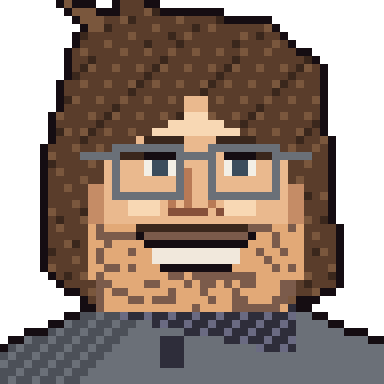
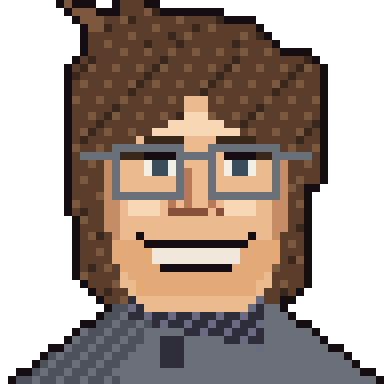
Portrait fixes: Norm front view with mohawk, Wes clean chin, Walt no cat / lighter beard / short light hair, Skip no chin dots and leaner, Kelsey slimmer
Claude-Session: https://claude.ai/code/session_01EHzhXZk3eB39kdtoeYCRr2

Changed region(s): [[0.0, 0.0625, 1.0, 1.0], [0.6562, 0.0312, 0.7812, 0.1562]]

diff --git a/src/characters.js b/src/characters.js
@@ -122,7 +122,7 @@ const PX = (cv, st = {}) => {
 };
 const SK = { skin: '#e2a977', skinLt: '#f3cc9f', skinSh: '#b87a56', skinDk: '#86503a' };
 const SK2 = { skin: '#eab98e', skinLt: '#f8d8b4', skinSh: '#c58c66', skinDk: '#93603f' };   // paler
-Object.assign(PAL, { black: '#1b1517', blk2: '#2b2428', grey: '#8a8f98', greyDk: '#5a5f69', greyLt: '#b8bcc4', brown: '#5a3d2b', brownDk: '#3a271c', brownLt: '#7a573d', blond: '#9a7a52', blondLt: '#c4a26c', red: '#d8283a', redDk: '#8a1624', redLt: '#ff5a66', glass: '#c9d6dc', teal: '#2e6e7a', paisley: '#2e2d3a', paisley2: '#6a6a82', white: '#f3efe6' });
+Object.assign(PAL, { hairLt: '#a67f58', hairLt2: '#c49a6c', beardLt: '#8f6b4c', beardLt2: '#a98462', black: '#1b1517', blk2: '#2b2428', grey: '#8a8f98', greyDk: '#5a5f69', greyLt: '#b8bcc4', brown: '#5a3d2b', brownDk: '#3a271c', brownLt: '#7a573d', blond: '#9a7a52', blondLt: '#c4a26c', red: '#d8283a', redDk: '#8a1624', redLt: '#ff5a66', glass: '#c9d6dc', teal: '#2e6e7a', paisley: '#2e2d3a', paisley2: '#6a6a82', white: '#f3efe6' });
 
 function headBase(P, sk, o = {}) {
   const { px, ell } = P, rx = o.rx || 14, ry = o.ry || 15.5, cx = o.cx || 24, cy = o.cy || 22;
@@ -130,10 +130,10 @@ function headBase(P, sk, o = {}) {
   for (let y = cy + 6; y <= cy + ry + 1; y++) for (let x = cx - 9; x <= cx + 9; x++) if (y <= cy + ry + 1 - Math.max(0, Math.abs(x - cx) - 6) * 0.9) px(x, y, sk.skin);   // squarer jaw
   px(cx - 7, cy - 8, sk.skinLt, 14, 3); px(cx - 8, cy + 2, sk.skinLt, 4, 3); px(cx + 4, cy + 2, sk.skinLt, 4, 3);
 }
-function neckShirt(P, sk, shirt, shirtSh, y0 = 38) {
+function neckShirt(P, sk, shirt, shirtSh, y0 = 38, slope = 2.3, start = 12) {
   const { px } = P;
   for (let y = 33; y < y0 + 3; y++) for (let x = 19; x <= 29; x++) px(x, y, x < 22 ? sk.skinSh : sk.skin);
-  for (let y = y0; y < 48; y++) { const half = 12 + (y - y0) * 2.3; for (let x = 0; x < 48; x++) if (Math.abs(x - 24) <= half) px(x, y, x < 24 - half * 0.45 && (x + y) % 3 ? shirtSh : shirt); }
+  for (let y = y0; y < 48; y++) { const half = start + (y - y0) * slope; for (let x = 0; x < 48; x++) if (Math.abs(x - 24) <= half) px(x, y, x < 24 - half * 0.45 && (x + y) % 3 ? shirtSh : shirt); }
 }
 const eyesAt = (P, y, o = {}) => {
   const { px, st } = P, gap = o.gap || 11;
@@ -149,21 +149,18 @@ const noseAt = (P, y) => { const { px } = P; px(23, y, 'skinSh', 1, 5); px(22, y
 // DING: thick dark beard, black rectangular glasses, short tousled brown hair, black tee, a tabby cat on his shoulder.
 export function paintDing(cv, st = {}) {
   const P = PX(cv, st), { px, ell, poly } = P;
-  // cat (behind, left shoulder)
-  poly([[1, 32], [3, 20], [5, 16], [7, 20], [11, 20], [13, 15], [14, 21], [15, 36], [8, 42], [2, 42]], '#8a7a62', (x, y) => ((x * 2 + y) % 5 === 0 ? '#4a3f33' : (x + y) % 7 === 0 ? '#b0a086' : '#8a7a62'));
-  px(4, 24, '#f0e6c8', 2, 2); px(9, 24, '#f0e6c8', 2, 2); px(5, 25, 'ol', 1, 1); px(10, 25, 'ol', 1, 1); px(7, 27, '#c07a7a', 2, 1);
-  px(2, 31, '#2a2024', 12, 2);                                                                   // collar
   neckShirt(P, SK2, 'blk2', 'black');
   headBase(P, SK2, { rx: 13.5, ry: 15 });
-  for (let y = 4; y <= 14; y++) for (let x = 11; x <= 37; x++) { const top = 6 + Math.floor(Math.abs(x - 26) / 6) - ((x * 5) % 3 === 0 ? 1 : 0), line = 13 + (x < 15 ? Math.floor((15 - x)) : 0) + (x > 34 ? Math.floor((x - 34)) : 0); if (y >= top && y <= line) px(x, y, (x * 2 + y * 3) % 6 < 1 ? 'brownLt' : 'brown'); }
-  px(11, 14, 'brown', 2, 8); px(36, 14, 'brown', 2, 8);
+  // very short, light brown hair (close crop, high hairline)
+  for (let y = 6; y <= 12; y++) for (let x = 11; x <= 37; x++) { const dx = Math.abs(x - 24), top = 6 + Math.floor(dx * dx / 55), line = 10 + (dx > 11 ? Math.floor(dx - 10) : 0); if (y >= top && y <= line) px(x, y, (x * 3 + y * 5) % 7 < 1 ? 'hairLt2' : 'hairLt'); }
+  px(11, 12, 'hairLt', 2, 5); px(36, 12, 'hairLt', 2, 5);
   // beard + moustache (dark, full)
-  for (let y = 27; y <= 41; y++) for (let x = 11; x <= 37; x++) { const cx = 24, d = ((x - cx) / 13) ** 2 + ((y - 29) / 12.5) ** 2; if (d <= 1 && y >= 27 + Math.max(0, 3 - Math.abs(x - cx) * 0.4)) px(x, y, (x * 3 + y * 5) % 9 < 1 ? 'brown' : 'brownDk'); }
-  px(19, 28, 'brownDk', 11, 2); px(17, 27, 'brownDk', 4, 1); px(27, 27, 'brownDk', 4, 1);   // moustache
+  for (let y = 27; y <= 41; y++) for (let x = 11; x <= 37; x++) { const cx = 24, d = ((x - cx) / 13) ** 2 + ((y - 29) / 12.5) ** 2; if (d <= 1 && y >= 27 + Math.max(0, 3 - Math.abs(x - cx) * 0.4)) px(x, y, (x * 3 + y * 5) % 9 < 1 ? 'beardLt2' : 'beardLt'); }
+  px(19, 28, 'beardLt', 11, 2); px(17, 27, 'beardLt', 4, 1); px(27, 27, 'beardLt', 4, 1);   // moustache
   px(21, 32, '#8a3b3b', 6, 1);                                                                    // mouth line in the beard
   talkAt(P, 21, 31, 6);
   // brows + eyes + glasses
-  for (const [bx, t] of [[16, 1], [27, -1]]) for (let i = 0; i < 7; i++) px(bx + i, 17 + (t > 0 ? (i < 3 ? 1 : 0) : (i > 3 ? 1 : 0)), 'brownDk', 1, 2);
+  for (const [bx, t] of [[16, 1], [27, -1]]) for (let i = 0; i < 7; i++) px(bx + i, 17 + (t > 0 ? (i < 3 ? 1 : 0) : (i > 3 ? 1 : 0)), 'beardLt', 1, 2);
   eyesAt(P, 20); noseAt(P, 21);
   for (const gx of [14, 26]) { px(gx, 18, 'black', 9, 1); px(gx, 25, 'black', 9, 1); px(gx, 18, 'black', 1, 8); px(gx + 8, 18, 'black', 1, 8); px(gx + 1, 19, 'glass', 7, 1); }
   px(23, 20, 'black', 3, 1); px(9, 20, 'black', 5, 1); px(35, 20, 'black', 4, 1);
@@ -174,13 +171,13 @@ export function paintDing(cv, st = {}) {
 export function paintDealone(cv, st = {}) {
   const P = PX(cv, st), { px, ell, poly } = P;
   // hair behind the head: long, to the shoulders, with a flyaway tuft up-left
-  poly([[8, 12], [10, 4], [16, 1], [24, 2], [33, 3], [39, 8], [41, 20], [42, 36], [36, 38], [12, 38], [6, 34], [6, 20]], null, (x, y) => ((x * 3 + y * 2) % 7 < 1 ? 'brownLt' : (x + y * 3) % 11 === 0 ? 'brownDk' : 'brown'));
+  poly([[10, 12], [11, 4], [16, 1], [24, 2], [32, 3], [37, 8], [38, 20], [38, 36], [34, 38], [14, 38], [10, 34], [9, 20]], null, (x, y) => ((x * 3 + y * 2) % 7 < 1 ? 'brownLt' : (x + y * 3) % 11 === 0 ? 'brownDk' : 'brown'));
   poly([[12, 4], [8, 0], [13, 2]], 'brownLt'); poly([[16, 2], [14, -1], [20, 1]], 'brown');
-  neckShirt(P, SK2, '#6b7078', '#4c5058');
-  for (let y = 36; y < 44; y++) for (let x = 14; x <= 36; x++) { const t = (x - 14) / 22; if (y - 36 < 3 + t * 5 && y - 36 > t * 2 - 1) px(x, y, (x + y) % 3 === 0 ? 'paisley2' : 'paisley'); }   // bandana knot
+  neckShirt(P, SK2, '#6b7078', '#4c5058', 38, 1.35, 10);   // narrower, athletic shoulders
+  for (let y = 36; y < 44; y++) for (let x = 16; x <= 32; x++) { const t = (x - 14) / 22; if (y - 36 < 3 + t * 5 && y - 36 > t * 2 - 1) px(x, y, (x + y) % 3 === 0 ? 'paisley2' : 'paisley'); }   // bandana knot
   px(20, 42, 'paisley', 3, 4);
-  headBase(P, SK2, { rx: 14, ry: 15.5 });
-  for (let y = 28; y <= 38; y++) for (let x = 11; x <= 37; x++) if (y <= 38 - Math.max(0, Math.abs(x - 24) - 11) * 1.6 && y >= 28) px(x, y, 'skin');   // broad, square jaw
+  headBase(P, SK2, { rx: 12, ry: 15.5 });                                                    // lean face
+  for (let y = 30; y <= 36; y++) for (let x = 14; x <= 34; x++) if (y <= 36 - Math.max(0, Math.abs(x - 24) - 7) * 1.1) px(x, y, 'skin');   // defined, angular jaw
   // hair on top / fringe falling to the sides, parted in the middle
   for (let y = 5; y <= 22; y++) for (let x = 9; x <= 39; x++) { const part = Math.abs(x - 24), line = 13 + Math.floor(part * 0.5) - (part < 2 ? 2 : 0), inner = part < 11 ? 0 : 1; if (y >= 5 + Math.floor(part / 5) && ((y <= line && part <= 15) || (part >= 12 && y <= 24 && part <= 16))) px(x, y, (x * 2 + y) % 6 < 1 ? 'brownLt' : (x + y) % 9 === 0 ? 'brownDk' : 'brown'); }
   // brows (relaxed, raised), eyes, thin glasses
@@ -190,8 +187,6 @@ export function paintDealone(cv, st = {}) {
   px(23, 19, '#6a7078', 3, 1); px(10, 19, '#6a7078', 4, 1); px(35, 19, '#6a7078', 4, 1);
   // big smile with teeth
   px(18, 30, 'ol', 13, 1); px(19, 31, 'tooth', 11, st.talk ? 1 : 2); if (st.talk) px(19, 32, 'mouth', 11, 2); px(20, 33, 'ol', 9, 1); px(17, 29, 'ol', 1, 1); px(31, 29, 'ol', 1, 1);
-  for (let y = 28; y <= 38; y++) for (let x = 12; x <= 36; x++) if ((((x * 73856093) ^ (y * 19349663)) >> 4) % 3 === 0 && !(y >= 30 && y <= 33 && x >= 17 && x <= 31)) px(x, y, 'stub');
-  px(17, 28, 'brownDk', 14, 1); px(19, 29, 'stub', 11, 1);   // moustache shadow
   talkAt(P, 19, 31, 11);
   P.outline();
 }
@@ -211,20 +206,17 @@ export function paintJimbo(cv, st = {}) {
   px(23, 18, '#3a3f48', 3, 1);
   px(20, 29, '#9a5a4a', 9, 1); px(21, 30, 'skinSh', 7, 1);                                         // serious mouth
   talkAt(P, 21, 29, 7);
-  // clasped hands under the chin: two fists with finger lines and knuckles
-  for (let y = 33; y <= 42; y++) for (let x = 16; x <= 32; x++) { const dx = Math.abs(x - 24); if (dx <= 8 - Math.max(0, y - 40) * 2 && y >= 33 + (dx > 6 ? 2 : 0)) px(x, y, y > 39 ? 'skinSh' : x < 24 ? 'skin' : 'skinLt'); }
-  px(23, 33, 'skinSh', 1, 9); for (const y of [35, 37, 39]) px(17, y, 'skinSh', 15, 1);
-  for (const x of [18, 21, 26, 29]) px(x, 34, 'skinDk', 1, 1);
-  px(19, 33, 'skinLt', 3, 1); px(26, 33, 'skinLt', 3, 1);
-  px(32, 41, 'black', 6, 2); px(33, 41, '#8a8f98', 4, 2);                                           // watch
+  // clean chin and neck: a soft shadow under the jaw, nothing else (the clasped hands from the photo were reading as a beard)
+  px(19, 37, 'skinSh', 11, 1); px(20, 38, 'skinDk', 9, 1);
+  px(32, 41, 'black', 6, 2); px(33, 41, '#8a8f98', 4, 2);
   P.outline();
 }
 
 // HELGA: long straight light-brown hair parted in the middle, calm slight smile, grey sweatshirt with a white collar.
 export function paintHelga(cv, st = {}) {
   const P = PX(cv, st), { px, poly } = P;
-  poly([[9, 10], [12, 3], [19, 0], [29, 0], [36, 3], [39, 10], [41, 26], [44, 47], [4, 47], [7, 26]], null, (x, y) => ((x * 2 + y) % 6 < 1 ? 'blondLt' : (x + y * 2) % 13 === 0 ? 'brown' : 'blond'));
-  neckShirt(P, SK2, '#7a7f88', '#5a5f69', 39);
+  poly([[9, 10], [12, 3], [19, 0], [29, 0], [36, 3], [39, 10], [40, 26], [40, 47], [8, 47], [8, 26]], null, (x, y) => ((x * 2 + y) % 6 < 1 ? 'blondLt' : (x + y * 2) % 13 === 0 ? 'brown' : 'blond'));
+  neckShirt(P, SK2, '#7a7f88', '#5a5f69', 39, 0.95, 9);
   px(18, 39, 'white', 5, 3); px(25, 39, 'white', 5, 3); px(22, 40, 'greyLt', 4, 2);
   // oval face with a narrow, slightly pointed chin and a long neck (no squared jaw)
   for (let y = 8; y <= 38; y++) { const t = Math.max(0, (y - 24) / 14), half = y < 24 ? 12 - Math.max(0, (14 - y)) * 0.18 : 12 - t * t * 8.5 - t * 3; for (let x = Math.ceil(24 - half); x <= 24 + half; x++) px(x, y, x < 24 - half + 2 || x > 24 + half - 2 ? SK2.skinSh : SK2.skin); }
@@ -240,7 +232,7 @@ export function paintHelga(cv, st = {}) {
 }
 
 // TILAH: seen from the side (facing left): shaved sides, tall spiky red mohawk, light stubble, black top.
-export function paintTilah(cv, st = {}) {
+export function paintTilahSide(cv, st = {}) {
   const P = PX(cv, st), { px, ell, poly } = P;
   // mohawk spikes (behind the head)
   const spikes = [[14, 12, 8, 2], [18, 8, 10, 1], [22, 5, 12, 0], [27, 4, 14, 0], [31, 5, 16, 1], [35, 9, 18, 2], [38, 14, 20, 3], [40, 20, 22, 3], [41, 26, 24, 4]];
@@ -260,5 +252,26 @@ export function paintTilah(cv, st = {}) {
   px(13, 31, '#a85a5a', 4, 1); px(14, 32, 'skinSh', 3, 1);
   if (st.talk) { px(13, 31, 'ol', 3, 3); px(14, 32, 'mouth', 2, 1); }
   px(15, 27, 'skinSh');
+  P.outline();
+}
+
+// TILAH (front view, turned ~45 degrees toward the camera): tall red mohawk strip on top, shaved sides, no beard, relaxed half-smile, black tee.
+export function paintTilah(cv, st = {}) {
+  const P = PX(cv, st), { px, ell, poly } = P;
+  // mohawk spikes (behind / above the head)
+  neckShirt(P, SK2, 'blk2', 'black', 39, 1.7, 11);
+  headBase(P, SK2, { rx: 13, ry: 15.5, cx: 24, cy: 22 });
+  // shaved sides: short dark stubble above and around the ears (no hair on the face)
+  for (let y = 8; y <= 20; y++) for (let x = 10; x <= 38; x++) { const dx = Math.abs(x - 24), inHead = ((x - 24) / 13.4) ** 2 + ((y - 22) / 15.7) ** 2 <= 1; if (!inHead) continue; if (y <= 12 + (dx > 9 ? 4 : 0) && dx >= 5 || (y <= 15 && dx >= 11)) px(x, y, (x * 3 + y * 5) % 4 === 0 ? 'brown' : 'brownDk'); }
+  // tall comb of red spikes: columns of alternating height with pointed tips, leaning slightly back
+  const H = [7, 5, 3, 1, 0, 1, 3, 5, 7], X0 = 20;
+  H.forEach((top, i) => { const x = X0 + i; for (let y = top + 3; y <= 15; y++) px(x, y, (i + y) % 3 === 0 ? 'redLt' : (i * 2 + y) % 5 === 0 ? 'redDk' : 'red'); px(x, top + 2, i % 2 ? 'red' : 'redLt'); px(x, top + 1, i % 2 ? 'redLt' : 'red'); if (i % 2 === 0) px(x, top, 'redLt'); });
+  for (const [x, y] of [[19, 9], [29, 9], [18, 11], [30, 11]]) px(x, y, 'red', 1, 5);
+  px(9, 20, 'skinSh', 2, 5); px(37, 20, 'skinSh', 2, 5); px(9, 21, 'skinDk', 1, 3); px(38, 21, 'skinDk', 1, 3);   // ears
+  // brows, eyes, nose, mouth
+  for (const [bx, t] of [[15, 1], [27, -1]]) for (let i = 0; i < 7; i++) px(bx + i, 17 + (t > 0 ? (i > 4 ? 0 : 0) : 0) + (t > 0 ? (i > 4 ? -0 : 0) : 0), 'brownDk', 1, 2);
+  eyesAt(P, 20); noseAt(P, 21);
+  px(20, 31, '#a85a5a', 9, 1); px(29, 30, '#a85a5a', 1, 1); px(21, 32, 'skinSh', 7, 1);   // easy half-smile
+  talkAt(P, 20, 30, 8);
   P.outline();
 }

diff --git a/src/version.js b/src/version.js
@@ -1,2 +1,2 @@
 // generated by tools/stamp.mjs
-export const BUILD = { n: 79, time: '2026-10-14T10:59:39.498Z' };
+export const BUILD = { n: 80, time: '2026-10-14T11:34:17.724Z' };
